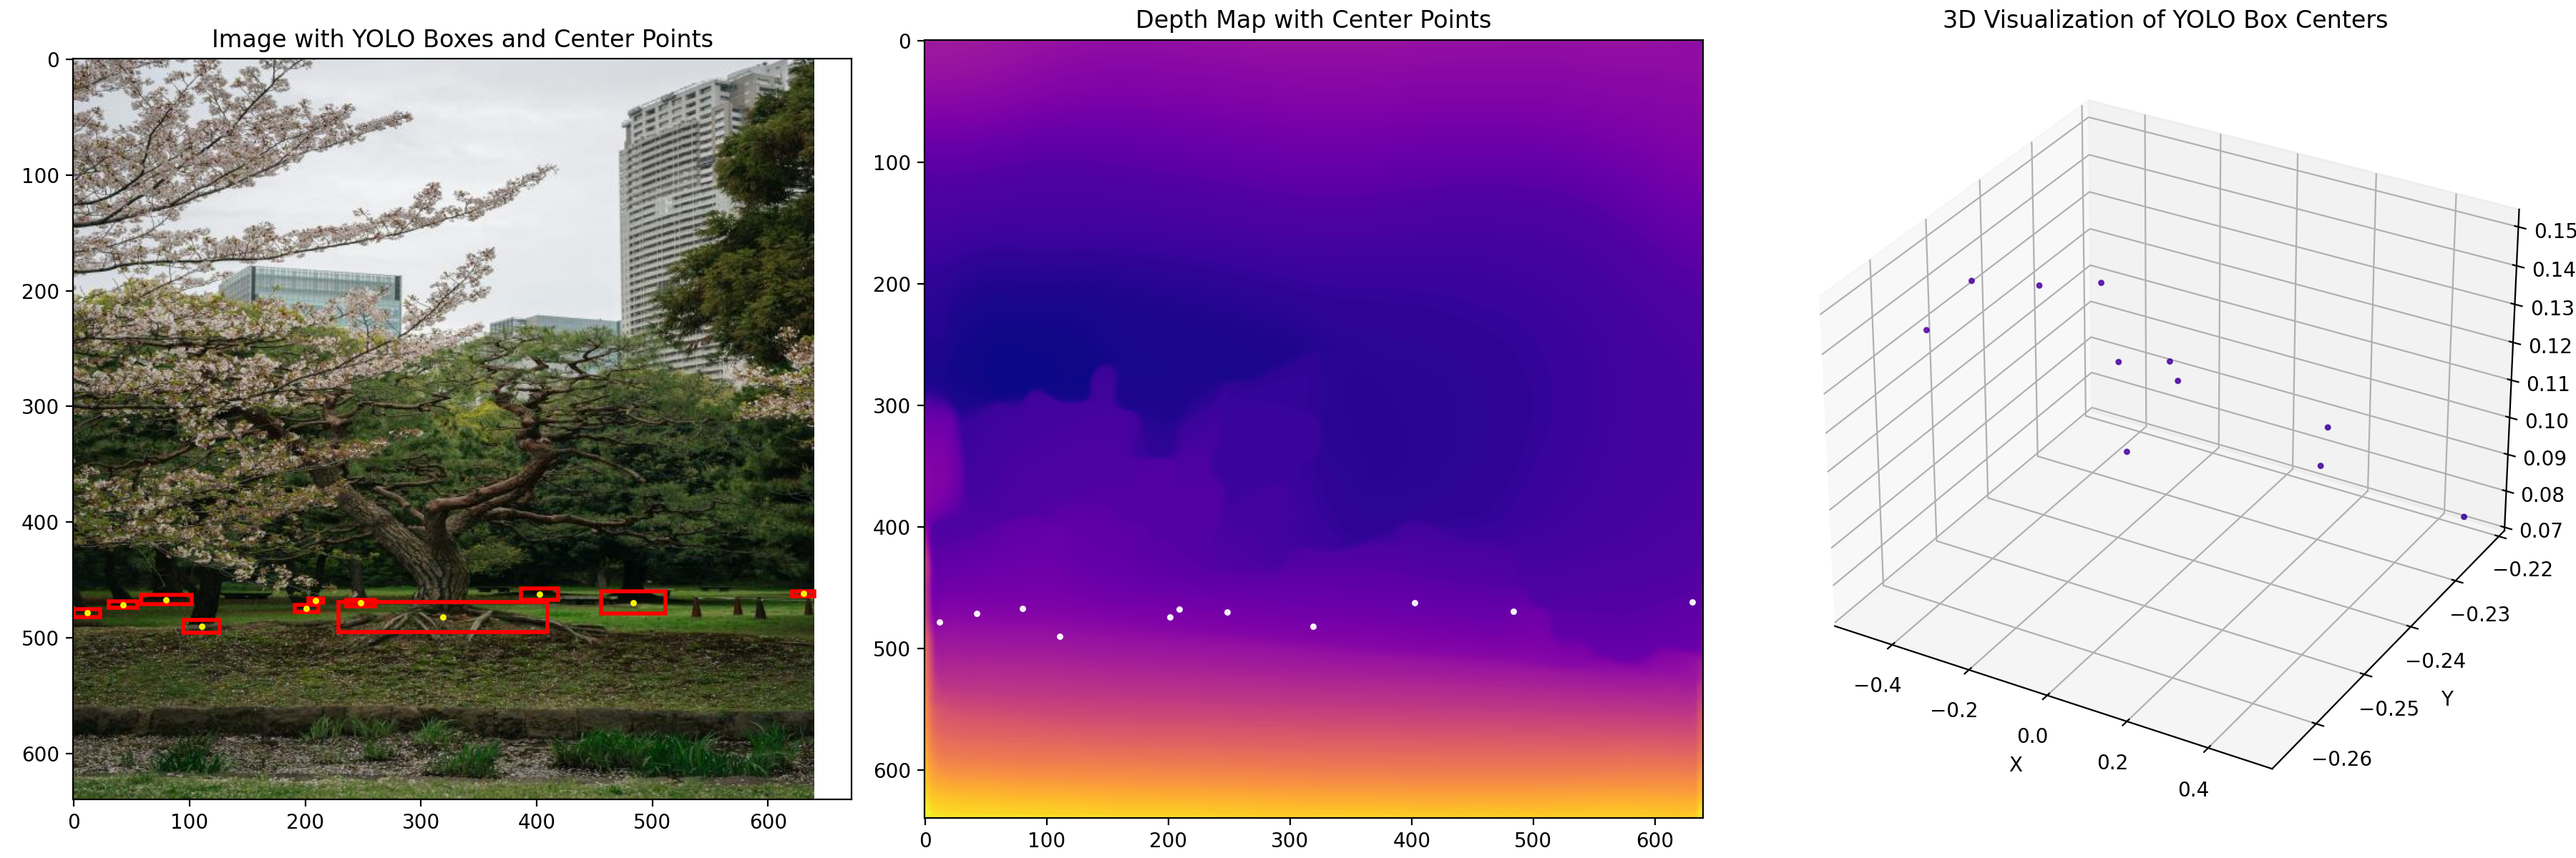
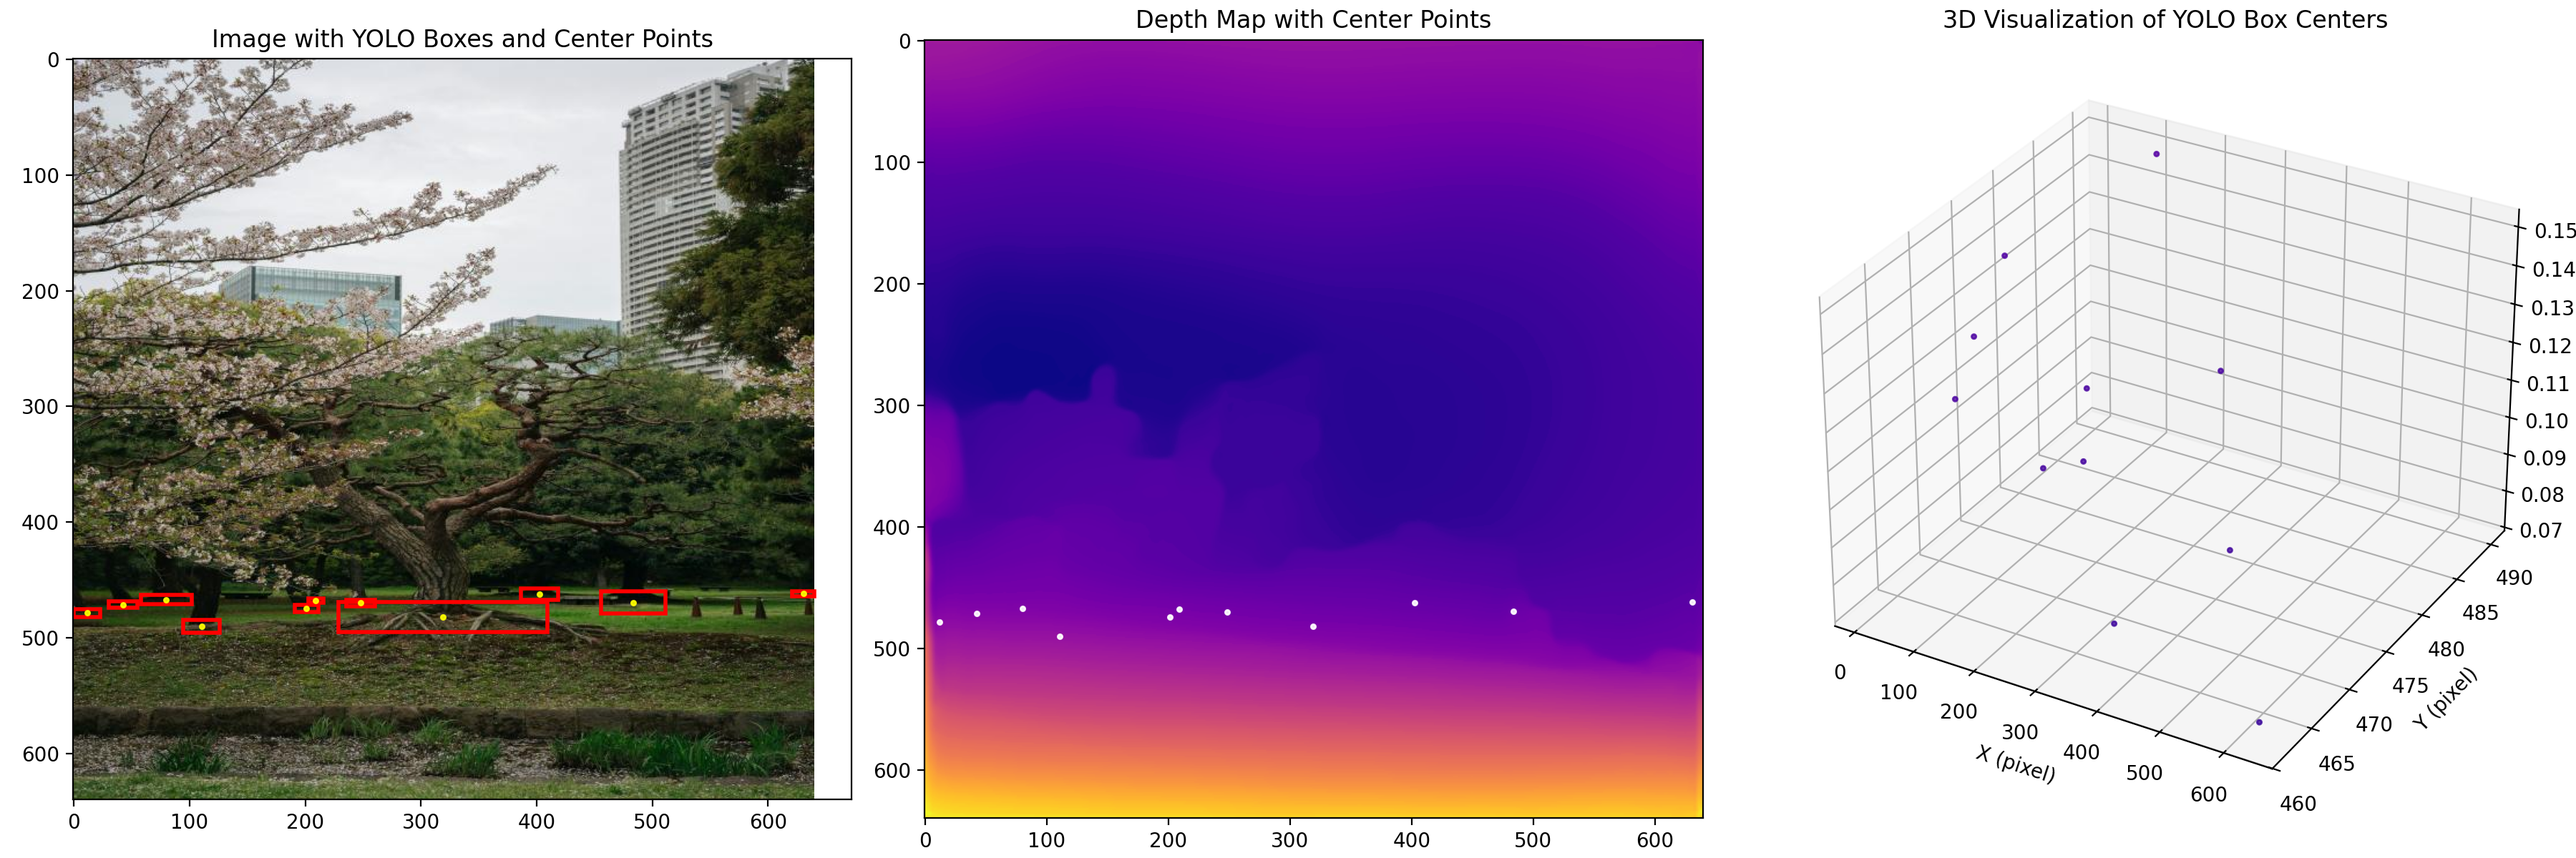
solve the unit issues

diff --git a/YOLO/yolo_to_3d_demo.py b/YOLO/yolo_to_3d_demo.py
@@ -263,11 +263,10 @@ def visualize_3d_popup(coords_3d, title="3D Point Cloud Visualization"):
         s=30,  # Larger point size for better visibility
         alpha=0.8
     )
-    
-    # Set labels and title
-    popup_ax.set_xlabel('X')
-    popup_ax.set_ylabel('Y')
-    popup_ax.set_zlabel('Z (Depth)')
+      # Set labels and title
+    popup_ax.set_xlabel('X (pixel)')
+    popup_ax.set_ylabel('Y (pixel)')
+    popup_ax.set_zlabel('Z (depth)')
     popup_ax.set_title(title)
     
     # Add a color bar to show the depth scale
@@ -465,9 +464,8 @@ def main():
     # Convert to 3D coordinates
     coords_3d = pixel_coords_to_3d(center_points, depth_map, z_scale=args.z_scale)
     print(f"Converted points to 3D coordinates")
-    
-    # Get normalized 3D coordinates for visualization
-    coords_3d_norm = pixel_coords_to_3d(center_points, depth_map, z_scale=args.z_scale, normalize=True)
+      # Get raw pixel coordinates for 3D visualization (not normalized)
+    coords_3d_raw = pixel_coords_to_3d(center_points, depth_map, z_scale=args.z_scale, normalize=False)
       # Load and prepare the image for visualization using PIL (better Unicode support)
     try:
         from PIL import Image
@@ -501,23 +499,22 @@ def main():
     ax2 = fig.add_subplot(132)
     ax2.imshow(depth_map, cmap='plasma')
     ax2.scatter(center_points[:, 0], center_points[:, 1], color='white', s=5, alpha=0.9)
-    ax2.set_title('Depth Map with Center Points')
-      # 3. 3D visualization
+    ax2.set_title('Depth Map with Center Points')    # 3. 3D visualization
     ax3 = fig.add_subplot(133, projection='3d')
     
     # Color the points by their depth value
-    colors = plt.cm.plasma(coords_3d_norm[:, 2])
+    colors = plt.cm.plasma(coords_3d_raw[:, 2])
     
     ax3.scatter(
-        coords_3d_norm[:, 0], 
-        coords_3d_norm[:, 1], 
-        coords_3d_norm[:, 2], 
+        coords_3d_raw[:, 0], 
+        coords_3d_raw[:, 1], 
+        coords_3d_raw[:, 2], 
         c=colors, s=5, alpha=0.8
     )
     
-    ax3.set_xlabel('X')
-    ax3.set_ylabel('Y')
-    ax3.set_zlabel('Z (Depth)')
+    ax3.set_xlabel('X (pixel)')
+    ax3.set_ylabel('Y (pixel)')
+    ax3.set_zlabel('Z (depth)')
     ax3.set_title('3D Visualization of YOLO Box Centers')
     
     # Save the visualization
@@ -530,17 +527,16 @@ def main():
     coords_path = os.path.join(args.output_dir, 'yolo_centers_3d_coords.npy')
     np.save(coords_path, coords_3d)
     print(f"3D coordinates saved to {coords_path}")
-    
-    # Optional: Create a simple PLY file with the 3D points
+      # Optional: Create a simple PLY file with the 3D points
     try:
         import open3d as o3d
         
         pcd = o3d.geometry.PointCloud()
-        pcd.points = o3d.utility.Vector3dVector(coords_3d_norm)
+        pcd.points = o3d.utility.Vector3dVector(coords_3d_raw)
         
         # Create some default colors based on depth
-        colors = np.zeros((len(coords_3d_norm), 3))
-        normalized_z = (coords_3d_norm[:, 2] - coords_3d_norm[:, 2].min()) / (coords_3d_norm[:, 2].max() - coords_3d_norm[:, 2].min())
+        colors = np.zeros((len(coords_3d_raw), 3))
+        normalized_z = (coords_3d_raw[:, 2] - coords_3d_raw[:, 2].min()) / (coords_3d_raw[:, 2].max() - coords_3d_raw[:, 2].min())
         colors[:, 0] = 1 - normalized_z  # Red channel (higher for smaller depth)
         colors[:, 2] = normalized_z      # Blue channel (higher for greater depth)
         pcd.colors = o3d.utility.Vector3dVector(colors)
@@ -550,9 +546,8 @@ def main():
         print(f"3D point cloud saved to {ply_path}")
         
     except ImportError:
-        print("Open3D not available. Skipping PLY file creation.")
-      # Show popup visualization
-    popup_fig = visualize_3d_popup(coords_3d_norm, title="Interactive 3D Visualization of YOLO Box Centers")
+        print("Open3D not available. Skipping PLY file creation.")    # Show popup visualization
+    popup_fig = visualize_3d_popup(coords_3d_raw, title="Interactive 3D Visualization of YOLO Box Centers (Raw Pixels)")
     
     # Keep the figures open until closed by the user
     plt.show()
